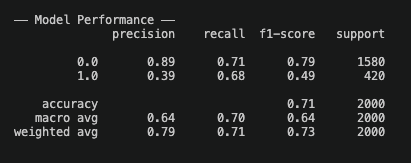
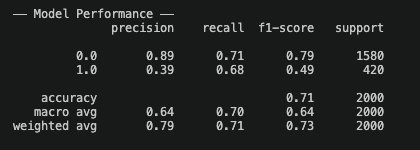
refactor ML pipeline and remove unused models

diff --git a/analyses/dashboard.py b/analyses/dashboard.py
@@ -1,6 +1,5 @@
 import pandas as pd
 import matplotlib.pyplot as plt
-import matplotlib.gridspec as gridspec
 from google.cloud import bigquery
 import os
 
@@ -21,15 +20,13 @@ ml_df = client.query("""
     SELECT * FROM `bank-churn-analytics.dbt_jchoi.ml_churn_predictions`
 """).to_dataframe()
 
-# Create images folder
 os.makedirs("images", exist_ok=True)
 
 def clean_axes(ax):
-    """Remove top and right spines"""
     ax.spines['top'].set_visible(False)
     ax.spines['right'].set_visible(False)
 
-# ── 1. Churn Rate by Age Group ───────────────────────
+# 1. Churn Rate by Age Group
 fig, ax = plt.subplots(figsize=(8, 5))
 age_df = churn_df.groupby('age_group')['churn_rate'].mean().sort_values(ascending=False)
 bars = ax.bar(age_df.index, age_df.values, color='steelblue')
@@ -42,9 +39,8 @@ clean_axes(ax)
 plt.tight_layout()
 plt.savefig('images/churn_by_age_group.png', dpi=150)
 plt.close()
-print("Saved: churn_by_age_group.png")
 
-# ── 2. Churn Rate by Country ─────────────────────────
+# 2. Churn Rate by Country
 fig, ax = plt.subplots(figsize=(8, 5))
 country_df = churn_df.groupby('country')['churn_rate'].mean().sort_values(ascending=False)
 bars = ax.bar(country_df.index, country_df.values, color='steelblue')
@@ -57,9 +53,8 @@ clean_axes(ax)
 plt.tight_layout()
 plt.savefig('images/churn_by_country.png', dpi=150)
 plt.close()
-print("Saved: churn_by_country.png")
 
-# ── 3. Churn Rate by Credit Score Tier ───────────────
+# 3. Churn Rate by Credit Score Tier
 fig, ax = plt.subplots(figsize=(8, 5))
 credit_df = churn_df.groupby('credit_score_tier')['churn_rate'].mean().sort_values(ascending=False)
 bars = ax.bar(credit_df.index, credit_df.values, color='steelblue')
@@ -72,9 +67,8 @@ clean_axes(ax)
 plt.tight_layout()
 plt.savefig('images/churn_by_credit_score.png', dpi=150)
 plt.close()
-print("Saved: churn_by_credit_score.png")
 
-# ── 4. Churn Rate by Balance Tier ────────────────────
+# 4. Churn Rate by Balance Tier
 fig, ax = plt.subplots(figsize=(8, 5))
 balance_df = churn_df.groupby('balance_tier')['churn_rate'].mean().sort_values(ascending=False)
 bars = ax.bar(balance_df.index, balance_df.values, color='steelblue')
@@ -87,9 +81,8 @@ clean_axes(ax)
 plt.tight_layout()
 plt.savefig('images/churn_by_balance_tier.png', dpi=150)
 plt.close()
-print("Saved: churn_by_balance_tier.png")
 
-# ── 5. Churn Probability by Risk Segment ─────────────
+# 5. Churn Probability by Risk Segment
 fig, ax = plt.subplots(figsize=(8, 5))
 risk_df = ml_df.groupby('risk_segment')['churn_probability'].mean().sort_values(ascending=False)
 bars = ax.bar(risk_df.index, risk_df.values * 100, color='steelblue')
@@ -102,23 +95,3 @@ clean_axes(ax)
 plt.tight_layout()
 plt.savefig('images/ml_churn_probability.png', dpi=150)
 plt.close()
-print("Saved: ml_churn_probability.png")
-
-# ── 6. A/B Test Results ───────────────────────────────
-fig, ax = plt.subplots(figsize=(8, 5))
-ab_df = ml_df[ml_df['ab_group'].notna()].groupby(
-    ['risk_segment', 'ab_group'])['churn'].mean() * 100
-ab_df = ab_df.unstack()
-ab_df.plot(kind='bar', ax=ax, color=['steelblue', 'lightsteelblue'], width=0.6)
-ax.set_title('A/B Test: Churn Rate by Risk Segment', fontweight='bold', fontsize=14)
-ax.set_ylabel('Churn Rate (%)')
-ax.set_xlabel('')
-ax.legend(title='Group')
-ax.tick_params(axis='x', rotation=0)
-clean_axes(ax)
-plt.tight_layout()
-plt.savefig('images/ab_test_results.png', dpi=150)
-plt.close()
-print("Saved: ab_test_results.png")
-
-print("\nAll charts saved to images/")

diff --git a/analyses/ml_churn_prediction.py b/analyses/ml_churn_prediction.py
@@ -1,5 +1,4 @@
 import pandas as pd
-from scipy import stats
 from google.cloud import bigquery
 from sklearn.linear_model import LogisticRegression
 from sklearn.model_selection import train_test_split
@@ -23,29 +22,26 @@ FROM `bank-churn-analytics.dbt_jchoi.stg_customers`
 df = client.query(query).to_dataframe()
 print("Data loaded:", df.shape)
 
-# ── 1. Logistic Regression Model ────────────────────
+# Train logistic regression model
 features = ['credit_score', 'age', 'tenure', 'balance',
             'products_number', 'credit_card', 'active_member', 'estimated_salary']
 
 X = df[features]
 y = df['churn']
 
-# Split data into train and test sets
 X_train, X_test, y_train, y_test = train_test_split(X, y, test_size=0.2, random_state=42)
 
-# Scale features
 scaler = StandardScaler()
 X_train_scaled = scaler.fit_transform(X_train)
 X_test_scaled = scaler.transform(X_test)
 
-# Train logistic regression model with class balancing
 model = LogisticRegression(random_state=42, class_weight='balanced')
 model.fit(X_train_scaled, y_train)
 
 print("\n── Model Performance ──")
 print(classification_report(y_test, model.predict(X_test_scaled)))
 
-# ── 2. Predict churn probability ─────────────────────
+# Predict churn probability
 df['churn_probability'] = model.predict_proba(scaler.transform(X[features]))[:, 1]
 
 # Classify into risk segments
@@ -56,7 +52,7 @@ df['risk_segment'] = df['churn_probability'].apply(
 print("\n── Risk Segment Distribution ──")
 print(df['risk_segment'].value_counts())
 
-# ── 3. Save results to BigQuery ───────────────────────
+# Save results to BigQuery
 output_df = df[['customer_id', 'country', 'gender', 'age',
                 'credit_score', 'balance', 'churn',
                 'churn_probability', 'risk_segment']].copy()
@@ -66,5 +62,3 @@ output_df.to_gbq(
     project_id="bank-churn-analytics",
     if_exists="replace"
 )
-
-print("\n ML predictions saved to BigQuery: dbt_jchoi.ml_churn_predictions")

diff --git a/README.md b/README.md
@@ -9,22 +9,15 @@ making retention a top priority for any financial institution.
 This project analyzes churn behavior across 10,000 bank customers to answer 
 three core business questions:
 
-1. **Who is churning?** — Identify which customer segments (age, country, 
-   credit score, balance) have the highest churn rates
+1. **Who is churning?** — Identify which customer segments (age, country, credit score, balance) have the highest churn rates
 2. **Why are they churning?** — Surface key risk factors driving attrition
-3. **Can we predict and prevent it?** — Build an ML model to identify 
-   at-risk customers early, and simulate a retention intervention using A/B testing
-
-The ultimate goal is to help the bank proactively target high-risk customers 
-with retention offers before they leave, reducing revenue loss and improving 
-customer lifetime value.
+3. **Can we predict it?** — Build an ML model to identify at-risk customers early
 
 ## Tech Stack
 - **BigQuery** — cloud data warehouse
-- **dbt** — data modeling & transformation (staging + marts)
-- **Python** — ML modeling, A/B testing, visualization
+- **dbt** — data modeling & transformation
+- **Python** — ML modeling, visualization
   - scikit-learn (Logistic Regression)
-  - scipy (chi-square test)
   - matplotlib (charts)
 - **GitHub** — version control
 
@@ -36,28 +29,38 @@ customer lifetime value.
 
 ## Key Findings
 
-### 1. Who is churning?
+### Churn Rate by Age Group
 
 ![Churn by Age Group](images/churn_by_age_group.png)
+
 - Customers aged **46–60 have the highest churn rate at 51.2%** — over half of this segment left the bank
-- Under 30 customers show the lowest churn at 8.4%, suggesting younger customers are more loyal or less financially mobile
+- Under 30 customers show the lowest churn at 8.4%
+
+### Churn Rate by Country
 
 ![Churn by Country](images/churn_by_country.png)
+
 - **Germany has the highest churn rate at 30.5%**, significantly above France (26.0%) and Spain (23.7%)
-- This may indicate stronger competition from local German banks or dissatisfaction with product offerings in that market
+- This may indicate stronger competition from local German banks
+
+### Churn Rate by Credit Score
 
 ![Churn by Credit Score](images/churn_by_credit_score.png)
-- **Poor credit score customers churn most (30.4%)**, which is expected — these customers may be seeking better terms elsewhere
-- Notably, **Excellent credit score customers also churn at 26.6%**, suggesting high-value customers are being poached by competitors offering better rates
+
+- **Poor credit score customers churn most (30.4%)** — likely seeking better terms elsewhere
+- **Excellent credit score customers also churn at 26.6%** — likely being poached by competitors
+
+### Churn Rate by Balance Tier
 
 ![Churn by Balance Tier](images/churn_by_balance_tier.png)
+
 - High balance customers show elevated churn, indicating the bank may be losing its most valuable depositors
 
 ---
 
 ## ML Model: Churn Prediction
 
-A **Logistic Regression** model was trained on 8,000 customers and tested on 2,000 to predict individual churn probability.
+A **Logistic Regression** model was trained on 8,000 customers and tested on 2,000.
 
 ![Model Performance](images/model_performance.png)
 
@@ -67,49 +70,27 @@ Class imbalance (80/20 split) was addressed using `class_weight='balanced'`, imp
 
 Customers were segmented into three risk tiers based on predicted churn probability:
 - **High Risk**: ≥ 60% churn probability
-- **Medium Risk**: 40–60% churn probability  
+- **Medium Risk**: 40–60% churn probability
 - **Low Risk**: < 40% churn probability
-
----
-
-## A/B Test: Retention Intervention Simulation
-
-High and Medium Risk customers were randomly assigned to Control and Treatment groups to simulate a retention offer intervention.
-
-![A/B Test Results](images/ab_test_results.png)
-
-![A/B Test Result Table](images/ab_test_result_table.png)
-
-**Note:** No statistically significant difference was found between groups (p > 0.05). This is expected in a simulated environment where no actual intervention was applied. In a production setting, the Treatment group would receive real retention offers (e.g. fee waivers, preferential rates), and churn outcomes would be measured over 90 days.
 
 ---
 
 ## What the Bank Should Do Next
 
-Even though the initial A/B test did not show a statistically significant improvement, 
-the churn analysis and ML model clearly identified who is most likely to leave. 
-That means the next step is to launch targeted retention campaigns instead of 
-broad marketing efforts.
+Even though the ML model identifies who is most likely to leave, the next step is to launch targeted retention campaigns instead of broad marketing efforts.
 
 ### 1. Prioritize High-Risk Customers
 
-Use the churn prediction model every month to generate a list of high-risk customers.
-Focus especially on:
+Use the churn prediction model every month to generate a list of high-risk customers. Focus especially on:
 
 - Customers aged **46–60**
 - **High-balance** customers
 - Customers in **Germany**
 - Customers with **very low or very high credit scores**
 
-These customers represent the highest potential revenue loss.
-
----
-
 ### 2. Recommended Retention Strategies
 
 #### For High-Balance Customers
-These customers are valuable, so retention cost is justified.
-
 - Relationship manager outreach
 - Preferred banking benefits
 - Reduced fees
@@ -119,8 +100,6 @@ These customers are valuable, so retention cost is justified.
 **Goal:** Prevent competitors from attracting premium customers.
 
 #### For Excellent Credit Score Customers
-These customers may churn because they receive better offers elsewhere.
-
 - Competitive loan/mortgage rates
 - Personalized offers
 - Early renewal incentives
@@ -129,8 +108,6 @@ These customers may churn because they receive better offers elsewhere.
 **Goal:** Increase switching cost and improve perceived value.
 
 #### For Poor Credit Score Customers
-These customers may leave because of financial stress or dissatisfaction.
-
 - Financial wellness programs
 - Flexible repayment plans
 - Budgeting tools
@@ -140,36 +117,16 @@ These customers may leave because of financial stress or dissatisfaction.
 
 ---
 
-### 3. Improve the A/B Testing Process
-
-The current test is useful because it validates the experimentation pipeline.
-Next improvements:
-
-- Run the test longer (e.g., 90+ days)
-- Use real interventions instead of simulated treatment
-- Increase sample size
-- Segment tests by customer type instead of testing everyone together
-
-For example:
-- Test fee waivers only on high-balance customers
-- Test loan discounts only on excellent-credit customers
-
-This usually produces stronger measurable effects.
-
----
-
 ## Conclusion
 
 By combining:
 
 1. **Churn prediction** — identify who will leave before they do
 2. **Customer segmentation** — understand why different groups churn
-3. **Targeted A/B testing** — measure which retention strategies actually work
+3. **Targeted retention strategies** — act on insights with personalized offers
 
 The bank can move from **reactive retention** to **proactive retention**.
 
-Instead of waiting for customers to leave, the bank can identify at-risk customers 
-early, intervene with personalized offers, and continuously measure which strategies 
-actually reduce churn.
+Instead of waiting for customers to leave, the bank can identify at-risk customers early, intervene with personalized offers, and continuously measure which strategies actually reduce churn.
 
 > **Identify who will leave. Target them with the right offer. Measure what works.**
